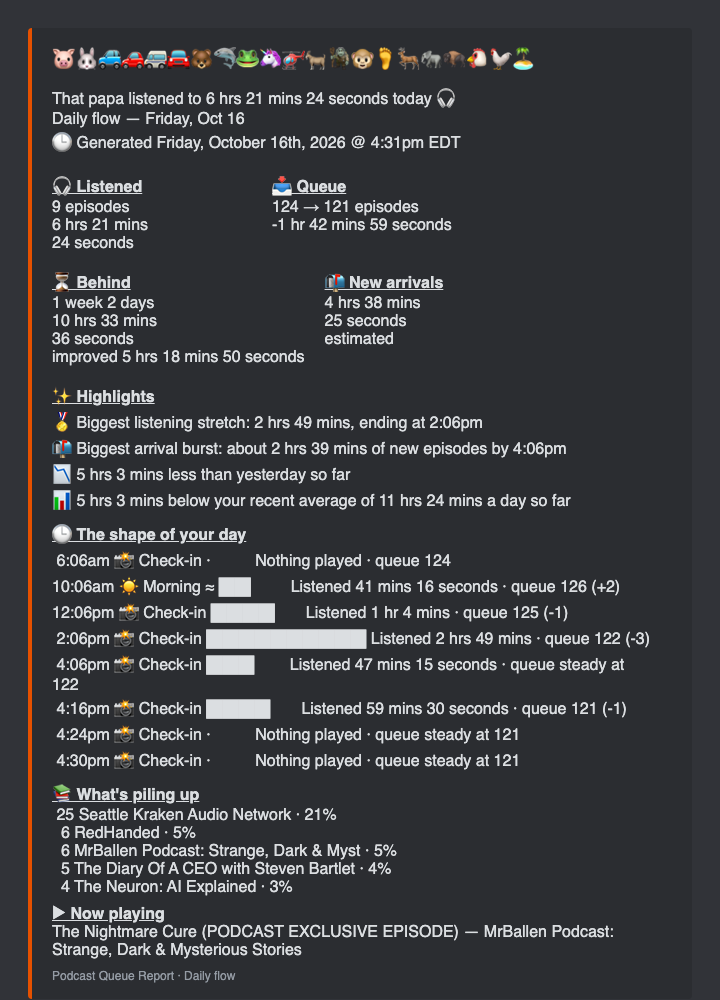
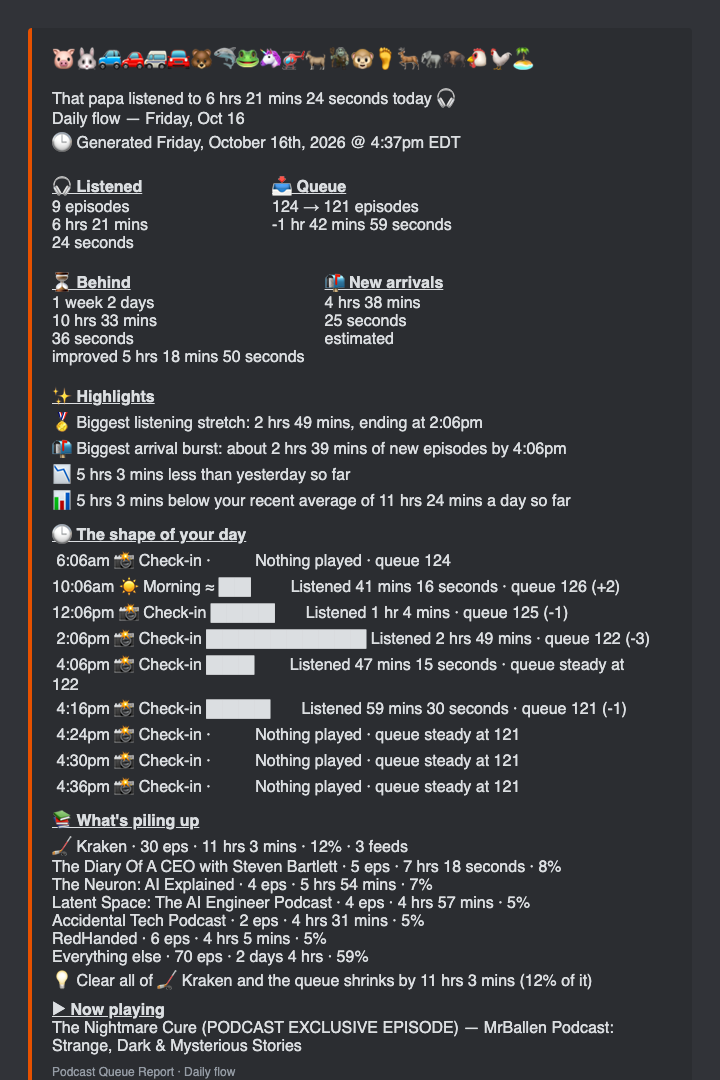
Flow reports: What's piling up as slices of the whole, and the whole queue on the page
What's piling up is a stacked bar of the queue's own listening time (top six
groups plus Everything else), with hours per slice and one plain insight.
SHOW_GROUPS in .env folds feeds that are really one thing, like the three
Kraken shows, into one slice. The queue under the flow summary drops the
repeated headline, grade, stamps and now-playing banner, and shows every
episode with its artwork, on the web page and in the optional email.

Changed region(s): [[0.0611, 0.031, 0.9167, 1.0]]

diff --git a/flow.py b/flow.py
@@ -81,7 +81,7 @@ def parse_fmt_seconds(text):
     return total
 
 
-def queue_by_show(d, top=6):
+def queue_by_show(d, top=None):
     """The queue grouped by show: how many episodes and how much listening each holds."""
     shows = {}
     for e in d["queue"].get("episodes", []):
@@ -90,7 +90,7 @@ def queue_by_show(d, top=6):
         row["count"] += 1
         row["seconds"] += parse_fmt_seconds(e.get("duration_fmt"))
     ranked = sorted(shows.values(), key=lambda r: (-r["count"], -r["seconds"]))
-    return ranked[:top]
+    return ranked[:top] if top else ranked
 
 
 def snapshot_from_run(d, label, source="live"):
@@ -406,10 +406,67 @@ def highlights(s, tz=None):
     return out
 
 
-def show_share(snap):
-    shows = snap.get("by_show") or []
-    total = snap["queue_count"] or 1
-    return [(r["podcast"], r["count"], 100.0 * r["count"] / total) for r in shows]
+PILE_COLORS = ("#a78bfa", "#38bdf8", "#34d399", "#fbbf24", "#cbd5e1")
+
+
+def load_show_groups(raw=None):
+    """SHOW_GROUPS from .env: 'name=feed|feed;name=feed', matched as
+    case-insensitive substrings of the show name. Lets several feeds that are
+    really one thing (three Kraken shows) read as one slice of the queue."""
+    raw = os.environ.get("SHOW_GROUPS", "") if raw is None else raw
+    groups = []
+    for part in raw.split(";"):
+        if "=" not in part:
+            continue
+        name, pats = part.split("=", 1)
+        pats = [x.strip().lower() for x in pats.split("|") if x.strip()]
+        if name.strip() and pats:
+            groups.append((name.strip(), pats))
+    return groups
+
+
+def group_shows(by_show, groups):
+    out = {}
+    for r in by_show:
+        key = r["podcast"]
+        for name, pats in groups:
+            if any(x in r["podcast"].lower() for x in pats):
+                key = name
+                break
+        row = out.setdefault(key, {"name": key, "count": 0, "seconds": 0, "feeds": 0})
+        row["count"] += r["count"]
+        row["seconds"] += r["seconds"]
+        row["feeds"] += 1
+    return sorted(out.values(), key=lambda r: (-r["seconds"], -r["count"]))
+
+
+def pile_segments(snap, groups=None, top=6):
+    """The queue as slices of its own total: the top groups by listening time
+    plus 'Everything else', so the slices always add up to the whole."""
+    groups = load_show_groups() if groups is None else groups
+    ranked = group_shows(snap.get("by_show") or [], groups)
+    total = sum(r["seconds"] for r in ranked) or 1
+    segs = [dict(r, pct=100.0 * r["seconds"] / total) for r in ranked[:top]]
+    rest = ranked[top:]
+    if rest:
+        secs = sum(r["seconds"] for r in rest)
+        segs.append({"name": "Everything else", "count": sum(r["count"] for r in rest),
+                     "seconds": secs, "feeds": sum(r["feeds"] for r in rest),
+                     "pct": 100.0 * secs / total, "other": True})
+    return segs, total
+
+
+def pile_insight(segs):
+    if not segs:
+        return ""
+    top = segs[0]
+    return (f"Clear all of {top['name']} and the queue shrinks by {dur_n(top['seconds'])} "
+            f"({top['pct']:.0f}% of it)")
+
+
+def pile_line(seg):
+    feeds = f" · {seg['feeds']} feeds" if seg["feeds"] > 1 and not seg.get("other") else ""
+    return f"{seg['count']} eps · {dur_n(seg['seconds'])} · {seg['pct']:.0f}%{feeds}"
 
 
 def bar_chat(value, peak, width=10):
@@ -443,8 +500,10 @@ def render_day_chat(s, tz=None):
     if snap:
         lines.append("")
         lines.append("What's piling up:")
-        for name, count, pct in show_share(snap)[:5]:
-            lines.append(f"  {count:>3} eps  {pct:>3.0f}%  {name}")
+        segs, _ = pile_segments(snap)
+        for seg in segs:
+            lines.append(f"  {seg['name']}: {pile_line(seg)}")
+        lines.append(f"  {pile_insight(segs)}")
     if s.get("now_playing"):
         np = s["now_playing"]
         lines.append(f"▶ Now playing: {np['title']} — {np['podcast']}")
@@ -522,20 +581,13 @@ def generated_pill(generated, tz=None):
 
 
 def queue_section_html(d):
-    """The main report's body (grade line, now playing, the queue with artwork)
-    for appending under the flow summary. Its own emoji row is dropped, since
-    the flow page already opens with the whole cast."""
-    page = rr.build_html(d)
-    body = page.split("<body", 1)[1].split(">", 1)[1].rsplit("</body>", 1)[0]
-    body = re.sub(
-        r'<div style="text-align:center;font-size:28px;line-height:1.3;margin-bottom:16px;">.*?</div>',
-        "", body, count=1, flags=re.S,
-    )
+    """The whole unplayed queue, every episode with its artwork, for appending
+    under the flow summary (the web page and the optional email)."""
     return (
         '<div style="border-top:2px dashed #cbd5e1;margin:40px 0 28px;"></div>'
         '<div style="text-align:center;font-size:13px;font-weight:600;color:#64748b;'
         'text-transform:uppercase;letter-spacing:0.6px;margin-bottom:20px;">The unplayed queue</div>'
-        + body
+        + rr.build_html(d, embed=True)
     )
 
 
@@ -617,20 +669,32 @@ def piling_up_html(s):
     snap = s.get("by_show_snapshot")
     if not snap:
         return ""
-    peak = max([c for _, c, _ in show_share(snap)] + [1])
-    rows = ""
-    for name, count, pct in show_share(snap)[:5]:
-        rows += (
-            '<div style="display:flex;align-items:center;margin:6px 0;font-size:13px;">'
-            f'<div style="flex:0 0 46%;overflow:hidden;text-overflow:ellipsis;white-space:nowrap;">{html.escape(name)}</div>'
-            f'<div style="flex:1;padding:0 10px;"><div style="height:10px;border-radius:5px;background:#a78bfa;'
-            f'width:{max(4, round(100 * count / peak))}%;"></div></div>'
-            f'<div style="flex:0 0 78px;text-align:right;color:#64748b;">{count} eps · {pct:.0f}%</div></div>'
-        )
+    segs, _ = pile_segments(snap)
+    if not segs:
+        return ""
+    bar = "".join(
+        f'<div title="{html.escape(seg["name"])}" style="width:{max(seg["pct"], 1):.2f}%;'
+        f'background:{PILE_COLORS[min(i, len(PILE_COLORS) - 1)]};height:18px;"></div>'
+        for i, seg in enumerate(segs)
+    )
+    legend = "".join(
+        '<div style="display:flex;align-items:center;margin:8px 0;font-size:13px;">'
+        f'<span style="display:inline-block;width:12px;height:12px;border-radius:3px;margin-right:10px;'
+        f'background:{PILE_COLORS[min(i, len(PILE_COLORS) - 1)]};"></span>'
+        f'<span style="flex:1;font-weight:600;">{html.escape(seg["name"])}</span>'
+        f'<span style="color:#64748b;">{html.escape(pile_line(seg))}</span></div>'
+        for i, seg in enumerate(segs)
+    )
+    inner = (
+        '<div style="display:flex;border-radius:9px;overflow:hidden;margin-bottom:14px;">' + bar + '</div>'
+        + legend
+        + f'<div style="margin-top:12px;padding-top:12px;border-top:1px solid #f1f5f9;font-size:13px;color:#475569;">'
+          f'💡 {html.escape(pile_insight(segs))}</div>'
+    )
     return (
         '<div style="font-size:13px;font-weight:700;color:#64748b;text-transform:uppercase;letter-spacing:0.6px;'
         'margin:24px 0 10px;">What&rsquo;s piling up</div>'
-        + _white_card(rows, 16)
+        + _white_card(inner, 16)
     )
 
 
@@ -749,7 +813,9 @@ def build_discord_day(s, generated=None, tz=None):
     fields.append(_field("__\U0001f552 The shape of your day__", shape[:1000], inline=False))
     snap = s.get("by_show_snapshot")
     if snap:
-        piling = "\n".join(f"`{c:>3}` {n[:38]} \u00b7 {pct:.0f}%" for n, c, pct in show_share(snap)[:5])
+        segs, _ = pile_segments(snap)
+        piling = "\n".join(f"**{seg['name'][:40]}** \u00b7 {pile_line(seg)}" for seg in segs)
+        piling += f"\n\U0001f4a1 {pile_insight(segs)}"
         fields.append(_field("__\U0001f4da What's piling up__", piling[:1000], inline=False))
     if s.get("now_playing"):
         np = s["now_playing"]

diff --git a/tests/test_flow.py b/tests/test_flow.py
@@ -230,6 +230,30 @@ class StoryTests(unittest.TestCase):
         self.assertEqual(flow.parse_fmt_seconds("1\xa0week 2\xa0days"), 604800 + 172800)
         self.assertEqual(flow.parse_fmt_seconds(""), 0)
 
+    def test_show_groups_fold_feeds_into_one_slice(self):
+        groups = flow.load_show_groups("🏒 Kraken=Seattle Kraken Audio Network|Beneath The Waves;Other=zzz")
+        self.assertEqual(groups[0][0], "🏒 Kraken")
+        by_show = [
+            {"podcast": "Seattle Kraken Audio Network", "count": 25, "seconds": 36000},
+            {"podcast": "Beneath The Waves: A Seattle Kraken Podcast", "count": 4, "seconds": 14000},
+            {"podcast": "RedHanded", "count": 6, "seconds": 9000},
+        ]
+        grouped = flow.group_shows(by_show, groups)
+        self.assertEqual((grouped[0]["name"], grouped[0]["count"], grouped[0]["seconds"], grouped[0]["feeds"]),
+                         ("🏒 Kraken", 29, 50000, 2))
+        self.assertEqual(grouped[1]["name"], "RedHanded")
+
+    def test_slices_add_up_to_the_whole_with_an_everything_else(self):
+        by_show = [{"podcast": f"Show {i}", "count": 1, "seconds": 1000} for i in range(8)]
+        segs, total = flow.pile_segments({"by_show": by_show}, groups=[], top=4)
+        self.assertEqual(len(segs), 5)
+        self.assertTrue(segs[-1].get("other"))
+        self.assertAlmostEqual(sum(s["pct"] for s in segs), 100.0)
+        self.assertIn("Clear all of Show", flow.pile_insight(segs))
+
+    def test_no_by_show_data_means_no_section(self):
+        self.assertEqual(flow.piling_up_html({"by_show_snapshot": None}), "")
+
     def test_queue_by_show_groups_and_ranks(self):
         d = {"queue": {"episodes": [
             {"podcast": "A", "duration_fmt": "1 hr"}, {"podcast": "A", "duration_fmt": "30 mins"},
@@ -279,7 +303,7 @@ class StoryTests(unittest.TestCase):
 
     def test_story_shows_up_in_every_format(self):
         chat = flow.render_day_chat(self.s, NY)
-        for needle in ("What's piling up", "Kraken Audio", "☀ Morning", "🌙 Evening", "Biggest listening stretch"):
+        for needle in ("What's piling up", "Kraken Audio", "☀ Morning", "🌙 Evening", "Biggest listening stretch", "Clear all of"):
             self.assertIn(needle, chat)
         page = flow.render_day_html(self.s, NY)
         for needle in ("What&rsquo;s piling up", "Pregame", "how old your oldest unplayed episode is"):
@@ -302,6 +326,18 @@ class GeneratedAndQueueTests(unittest.TestCase):
     def test_web_report_has_the_generated_pill_at_top_and_bottom(self):
         page = flow.render_day_html(self.s, NY, self.generated)
         self.assertEqual(page.count("Generated Friday, October 16th, 2026 @ 4:18pm EDT"), 2)
+
+    def test_the_whole_queue_is_in_the_page_not_collapsed(self):
+        d = minimal_run_json()
+        d["queue"]["episodes"] = [
+            {"title": f"Episode {i}", "podcast": "Show", "duration_fmt": "10 mins",
+             "pubdate": "2026-10-10T07:00:00", "in_progress": False}
+            for i in range(30)
+        ]
+        d["queue"]["count"] = 30
+        page = flow.render_day_html(self.s, NY, self.generated, d)
+        self.assertEqual(sum(f"Episode {i}" in page for i in range(30)), 30)
+        self.assertNotIn("<details", page)
 
     def test_queue_section_is_appended_without_a_second_cast_row(self):
         page = flow.render_day_html(self.s, NY, self.generated, minimal_run_json())

diff --git a/render_report.py b/render_report.py
@@ -1,4 +1,4 @@
-import json, sys, datetime, html
+import json, sys, datetime, html, re
 from zoneinfo import ZoneInfo
 
 PLAYED_LABELS = [
@@ -352,7 +352,10 @@ def build_email(d):
     # summary to keep in sync as build_html grows new sections.
     return subject, build_html(d)
 
-def build_html(d):
+def build_html(d, embed=False):
+    """The full HTML report. `embed=True` returns just the queue part as a
+    fragment - without the cast row, headline, generated stamps or now-playing
+    banner, which the page it is embedded in already carries."""
     q = d["queue"]
     p = d["played"]
 
@@ -487,6 +490,8 @@ def build_html(d):
         )
     else:
         now_playing_html = ""
+    if embed:
+        now_playing_html = ""
 
     # No oldest episode at all means the queue is empty — there's nothing to
     # date-stamp, so say so instead of printing an "Oldest:" line.
@@ -501,7 +506,7 @@ def build_html(d):
         for e in d["emoji_list"]
     )
 
-    return f'''<!DOCTYPE html>
+    page = f'''<!DOCTYPE html>
 <html>
 <head>
 <meta charset="utf-8">
@@ -543,6 +548,17 @@ def build_html(d):
 </div>
 </body>
 </html>'''
+    if not embed:
+        return page
+    body = page.split("<body", 1)[1].split(">", 1)[1].rsplit("</body>", 1)[0]
+    for marker in (
+        'text-align:center;font-size:28px;line-height:1.3;margin-bottom:16px;',   # the cast row
+        'text-align:center;font-size:20px;font-weight:600;margin-bottom:12px;',   # the "That papa is" headline
+        'text-align:center;margin-bottom:32px;',                                  # header generated stamp
+        'text-align:center;margin-top:32px;',                                     # footer generated stamp
+    ):
+        body = re.sub(r'<div style="' + re.escape(marker) + r'">.*?</div>', "", body, count=1, flags=re.S)
+    return body
 
 if __name__ == "__main__":
     data = json.load(open(sys.argv[1]))
